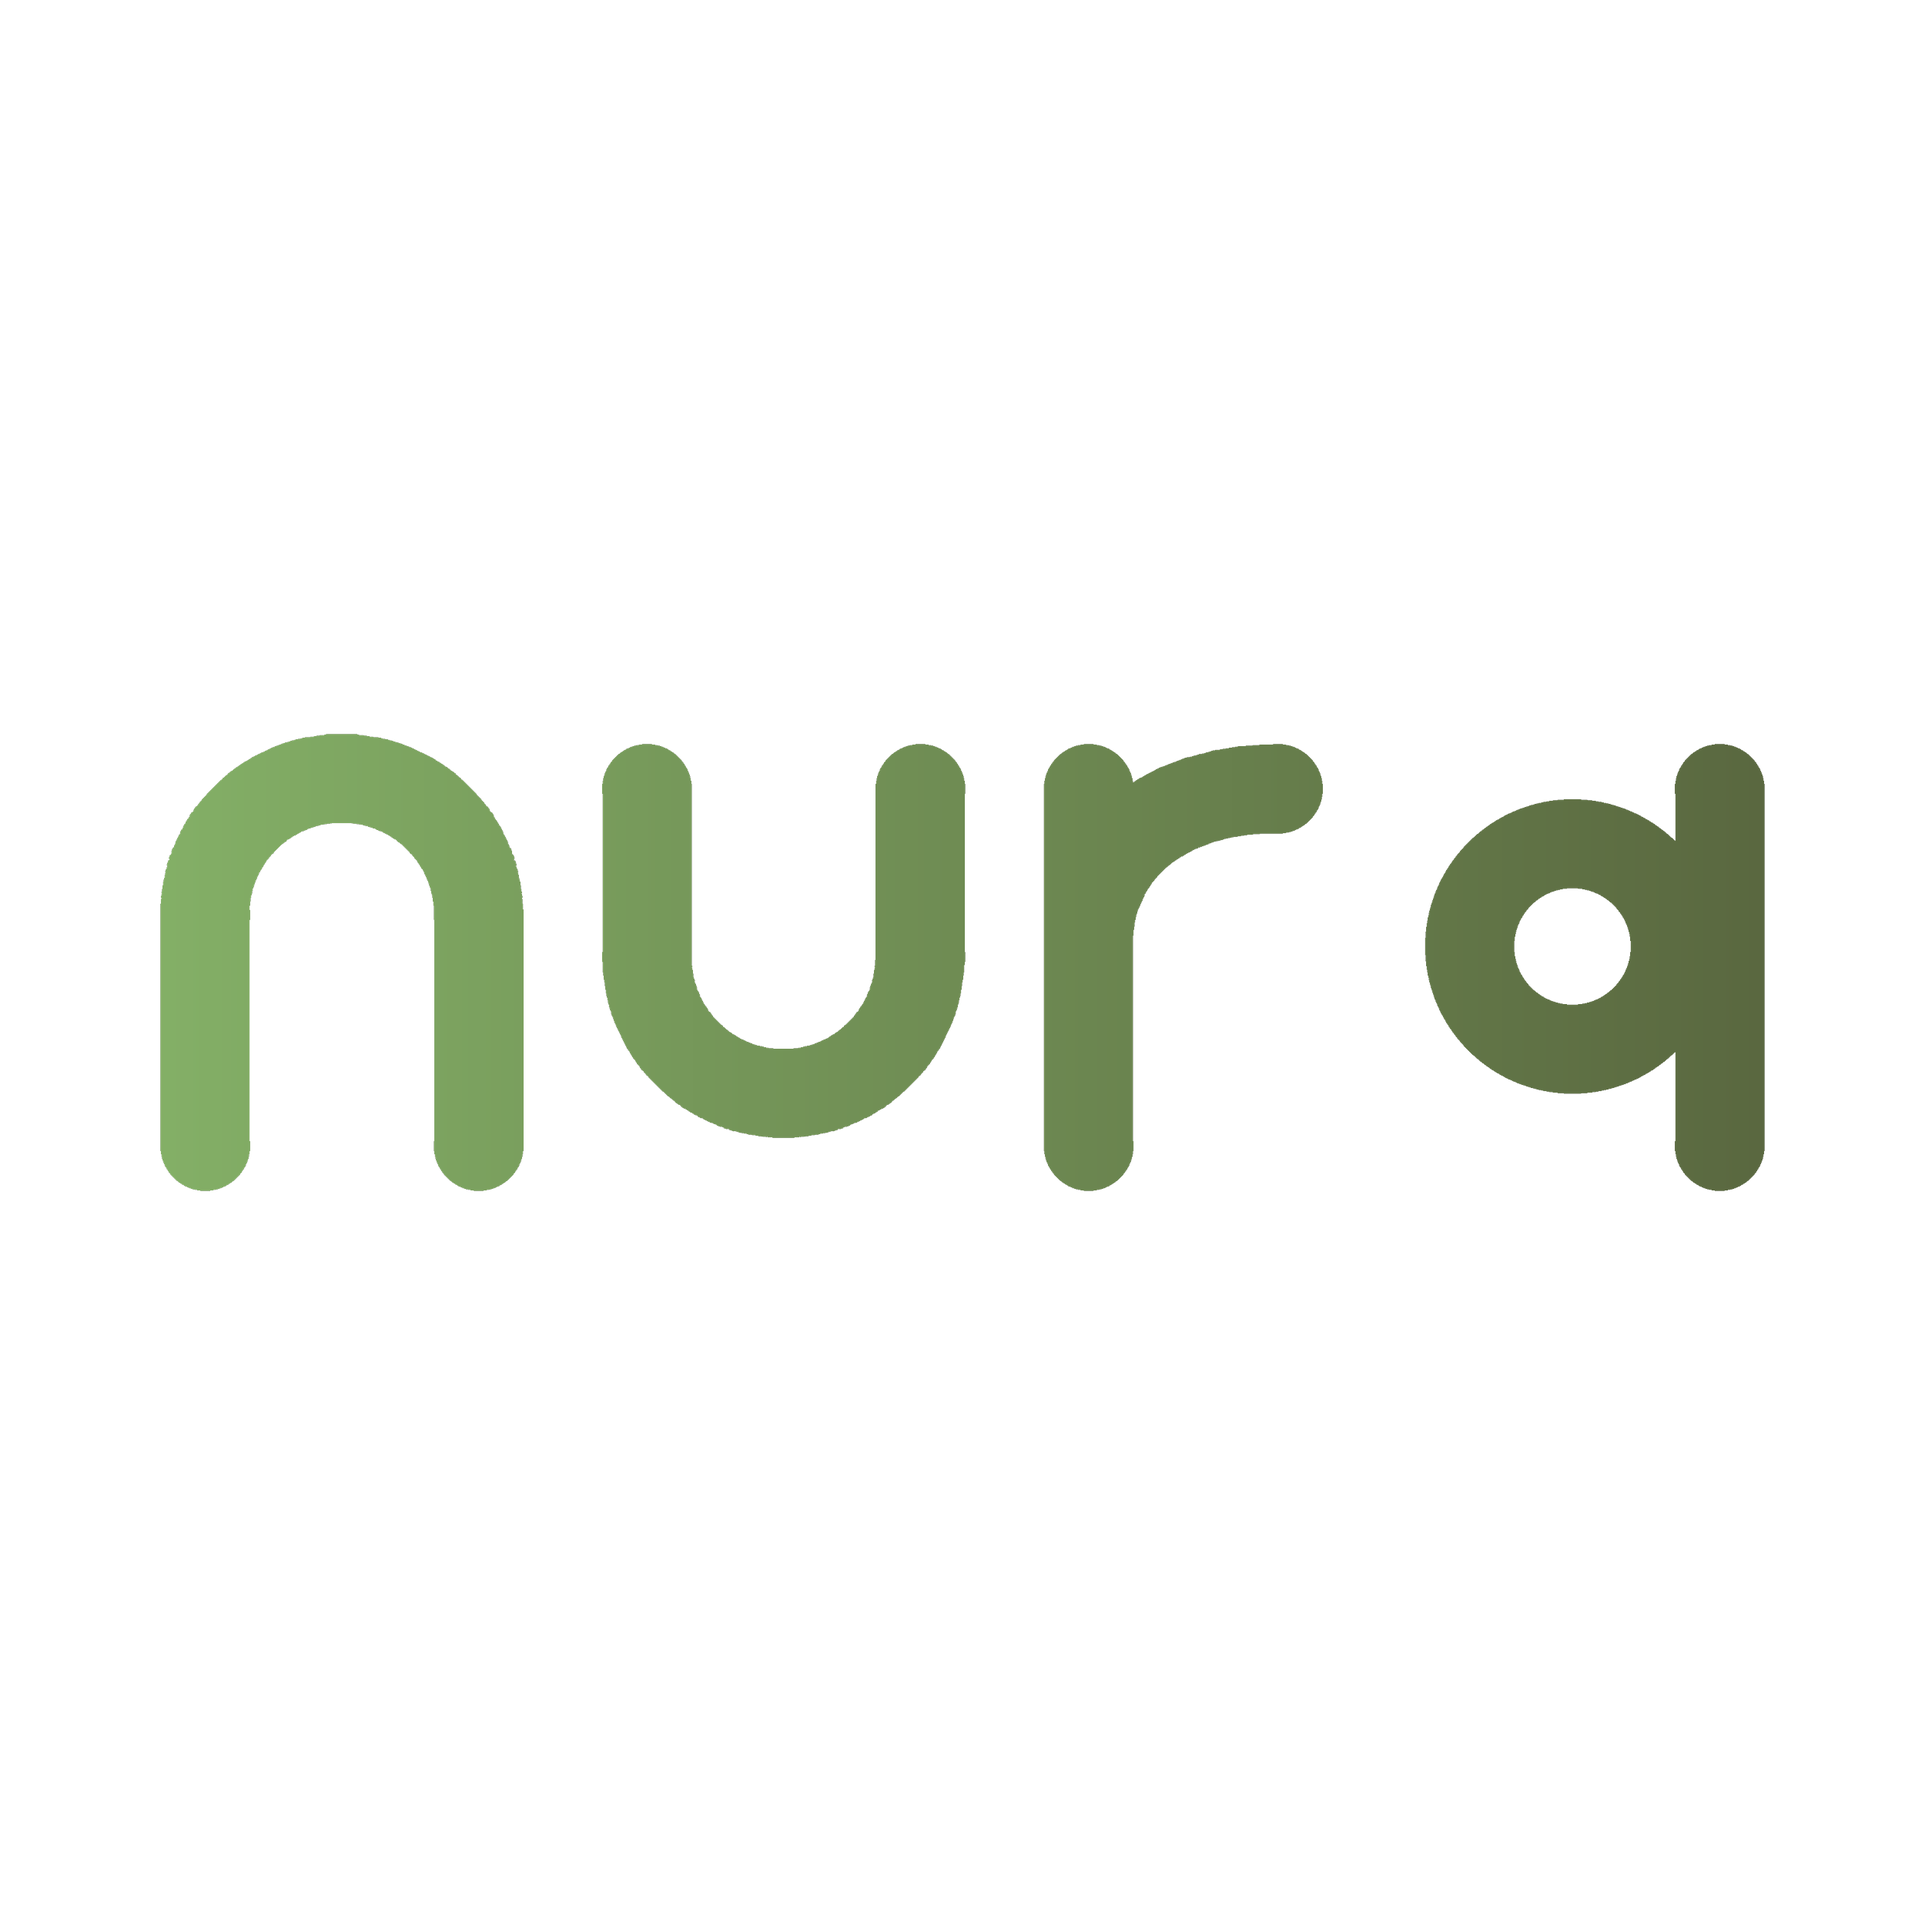
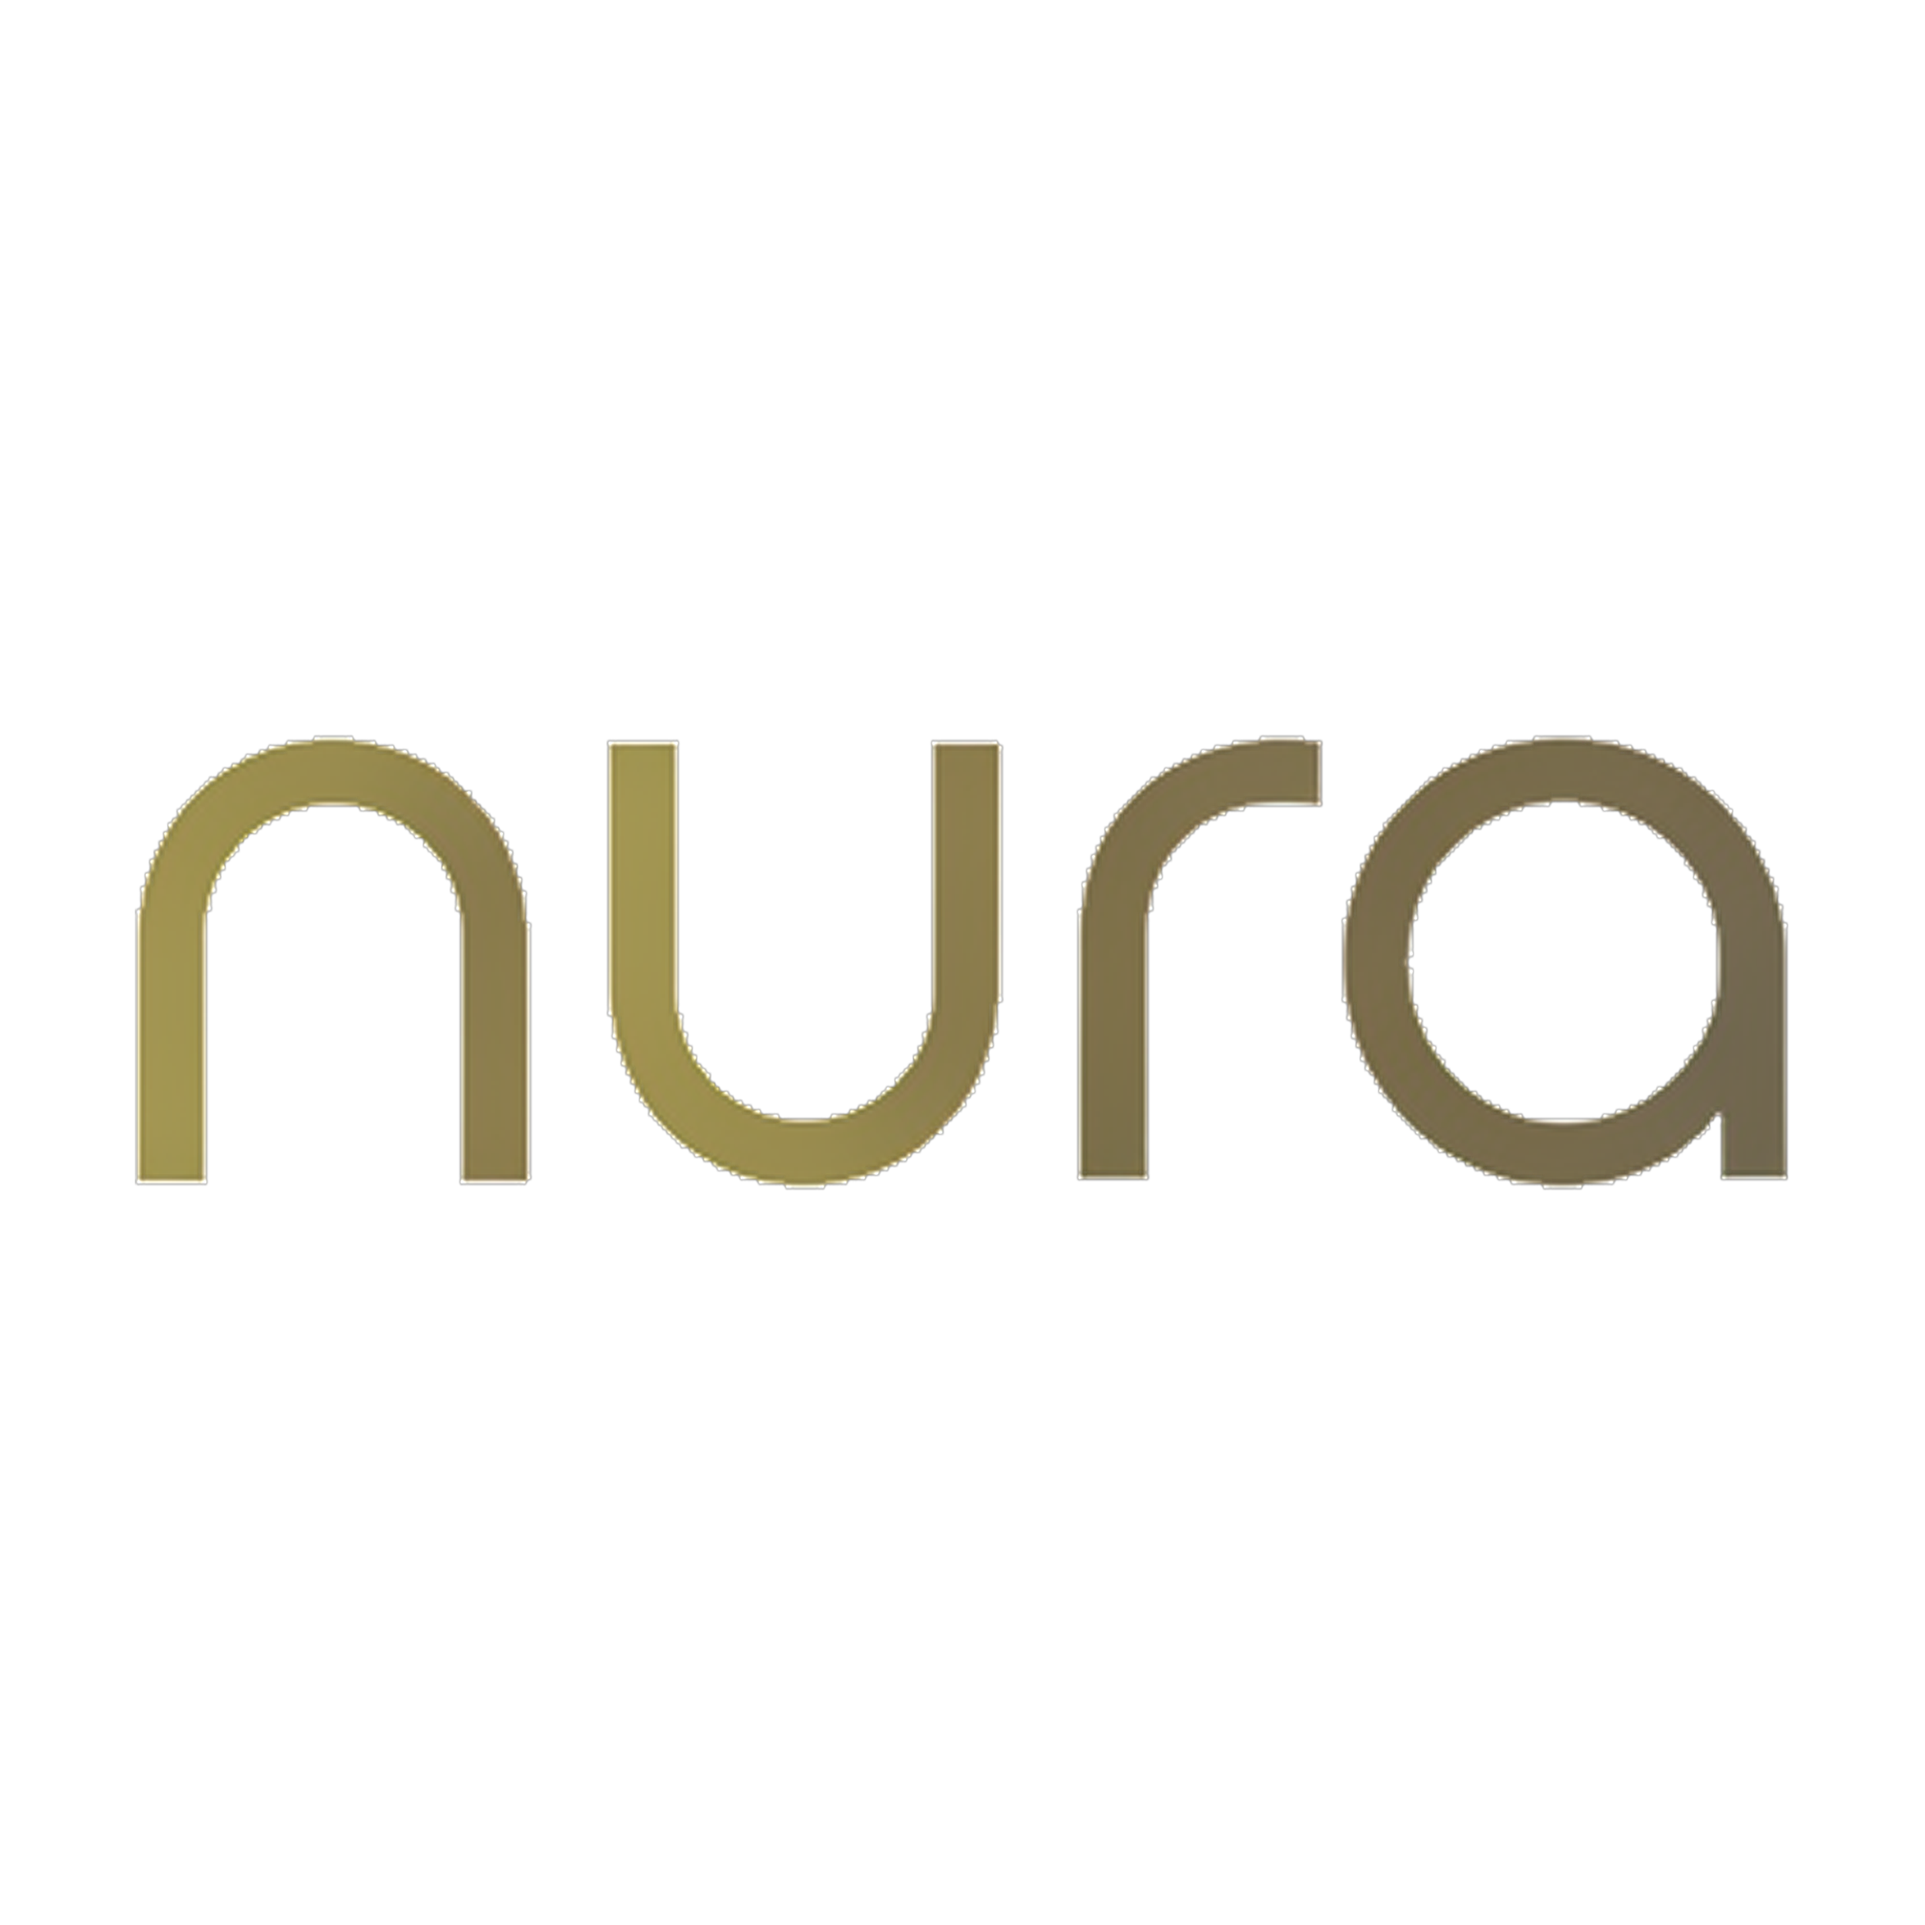
Ship GA4 Consent Mode tag detection and harden pre-push lint gate.
Load gtag on marketing pages with storage denied until cookie accept so Google can detect the tag; require npm test + lint before push without a local full build.

Changed region(s): [[0.312, 0.3744, 0.6864, 0.624], [0.6864, 0.3744, 0.936, 0.624], [0.0624, 0.3744, 0.2808, 0.624]]

diff --git a/app/components/frontend/MarketingTags.tsx b/app/components/frontend/MarketingTags.tsx
@@ -6,15 +6,14 @@ import { useEffect, useState } from "react";
 import {
   CONSENT_UPDATE_EVENT,
   applyConsentToGtag,
-  consentToMode,
   isGtmAllowedPath,
   readConsent,
 } from "@/lib/marketing-consent";
 import type { PublicMarketingTags } from "@/lib/site-seo";
 
 /**
- * Loads GA4 / Clarity / GTM only on marketing paths after analytics consent.
- * Skipped entirely when Admin → SEO ignored IPs match the visitor.
+ * GA4 loads with Google Consent Mode (storage denied until analytics cookies).
+ * Clarity / GTM still wait for consent. Skipped when ignored IPs match.
  */
 export function MarketingTags({ tags }: { tags: PublicMarketingTags }) {
   const pathname = usePathname() || "/";
@@ -35,24 +34,24 @@ export function MarketingTags({ tags }: { tags: PublicMarketingTags }) {
 
   const analyticsOk = consent?.analytics === true;
   const marketingOk = consent?.marketing === true;
-  const mode = consentToMode(consent);
 
   return (
     <>
+      {/* Consent Mode default denied; cookie banner / localStorage call consent update. */}
       <Script id="nura-consent-default" strategy="afterInteractive">{`
         window.dataLayer = window.dataLayer || [];
         function gtag(){dataLayer.push(arguments);}
         window.gtag = gtag;
         gtag('consent', 'default', {
-          analytics_storage: '${mode.analytics_storage}',
-          ad_storage: '${mode.ad_storage}',
-          ad_user_data: '${mode.ad_user_data}',
-          ad_personalization: '${mode.ad_personalization}',
+          analytics_storage: 'denied',
+          ad_storage: 'denied',
+          ad_user_data: 'denied',
+          ad_personalization: 'denied',
           wait_for_update: 500
         });
       `}</Script>
 
-      {analyticsOk && tags.ga4MeasurementId ? (
+      {tags.ga4MeasurementId ? (
         <>
           <Script
             src={`https://www.googletagmanager.com/gtag/js?id=${tags.ga4MeasurementId}`}
@@ -63,7 +62,10 @@ export function MarketingTags({ tags }: { tags: PublicMarketingTags }) {
             function gtag(){dataLayer.push(arguments);}
             window.gtag = gtag;
             gtag('js', new Date());
-            gtag('config', '${tags.ga4MeasurementId}', { anonymize_ip: true });
+            gtag('config', '${tags.ga4MeasurementId}', {
+              anonymize_ip: true,
+              send_page_view: true
+            });
           `}</Script>
         </>
       ) : null}

diff --git a/lib/site-seo.ts b/lib/site-seo.ts
@@ -264,7 +264,7 @@ export function buildMarketingSeoStatus(
       status: ga4On ? "connected" : "not_connected",
       publicIdMasked: ga4On ? maskPublicId(ga4) : null,
       detail: null,
-      hint: "Loads on the homepage and legal pages after someone allows analytics cookies. Visit numbers live on the Analytics tab. Do not also add this ID in Tag Manager.",
+      hint: "Tag loads on the homepage and legal pages with Consent Mode (storage stays off until analytics cookies are allowed). Visit numbers live on the Analytics tab. Do not also add this ID in Tag Manager.",
     },
     {
       id: "gtm",

diff --git a/CHANGELOG.md b/CHANGELOG.md
@@ -130,6 +130,7 @@ Format based on [Keep a Changelog](https://keepachangelog.com/en/1.1.0/).
 - Marketing footer mobile: contain logo marquee (`min-width: 0` + overflow), center CTA/actions, smaller wave logos so the slider doesn’t spill off-screen
 - Back-to-top: icon-only (removed “Top” label)
 - Auth review fixes: desktop form pane top padding so absolute logo/Home don’t overlap tall forms; create-account OAuth errors stay on methods + strip `?error=` from URL; focus title on step change; mockup copy not `aria-hidden`; Terms on email step; footer tagline wraps before mid widths; `lib/auth/create-account-ui.ts` + tests
+- Pre-push gate: always `npm test` + `npm run lint` (+ ReadLints) before commit/push; **do not** run full `npm run build` as a local gate (Actions Docker build covers compile) — `.cursor/rules/git-commit-push.mdc` + `verify-before-done.mdc`
 
 ### Fixed
 - Guided BLS: Space/click only start a set in desensitization / installation / body_scan while idle; check-in offers **Repeat set** if the last set was missed; free sessions still start anytime
@@ -279,6 +280,7 @@ Format based on [Keep a Changelog](https://keepachangelog.com/en/1.1.0/).
 - Production Docker: `WORKDIR` `/app` → `/nura` so standalone traces do not collide with App Router `app/` + console `/app` (fixes unstyled pages and `/` rendering as login/AppAccessGate; vercel/next.js#68690)
 - Declare `gsap` + `lenis` in `package.json` (were local-only; required once marketing home compiles in Docker)
 - **Production runbook**: `docs/production.md` + always-on Cursor rule `.cursor/rules/nura-production.mdc` (Coolify UUIDs, VPS, nginx/Cloudflare path, GHCR deploy, WORKDIR `/nura`)
+- GA4 public tag: load `gtag.js` + `config` on marketing pages with Google Consent Mode (storage denied until cookie accept) so Google’s tag checker can detect `G-*` without requiring Accept; Clarity/GTM stay consent-gated (`MarketingTags`, Connections hint)
 
 ---
 

diff --git a/docs/brand.md b/docs/brand.md
@@ -75,7 +75,7 @@ Do not use Inter on any surface. Avoid rounded soft grotesks (Nunito, Manrope, r
   - Black on white / white on black: `nura-wave-logo-black-on-white-*`, `nura-wave-logo-white-on-black-*`
   - Color transparent: `nura-wave-logo-color-{500,2500}.png`
   - Color on white / black: `nura-wave-logo-color-on-white-*`, `nura-wave-logo-color-on-black-*`
-- Wordmark only (no wave) — solid letterforms (`nura-text.svg` / filled masters):
+- Wordmark only (no wave) — solid letterforms (filled PNG masters):
   - Transparent: `nura-text.png`, `nura-text-black.png`, `nura-text-white.png` (+ `-500` / `-2500` squares)
   - On backgrounds: `nura-text-color-on-white|black-*`, `nura-text-black-on-white-*`, `nura-text-white-on-black-*`
 - Never: brain, lotus, chat bubble, cross, heart, or the retired two-dots arc.
